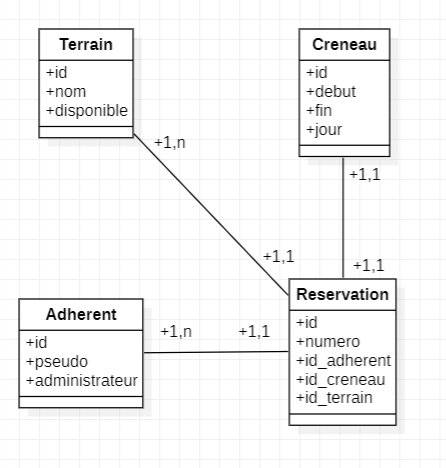
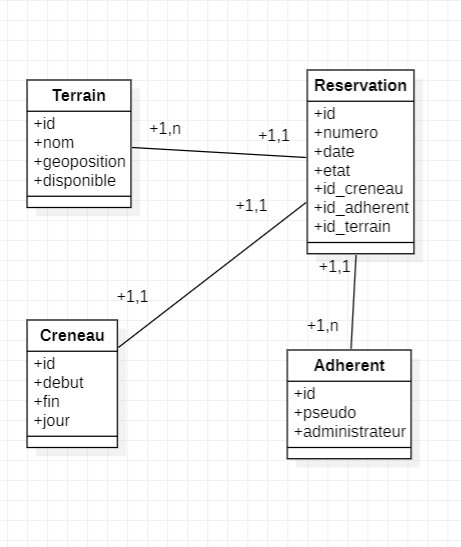
update readme3

diff --git a/README.md b/README.md
@@ -12,7 +12,6 @@
       - [Créneaux](#créneaux)
       - [Adhérents](#adhérents)
       - [Réservations](#réservations)
-      - [Administrateurs](#administrateurs)
     - [Dictionnaire des Données](#dictionnaire-des-données-1)
     - [Tableau Récapitulatif des Ressources](#tableau-récapitulatif-des-ressources)
   - [Modèle Conceptuel des Données (MCD)](#modèle-conceptuel-des-données-mcd)
@@ -61,13 +60,6 @@ Assurez-vous d'avoir [Node.js](https://nodejs.org/) installé sur votre machine.
 - **Paramètres d'URL/Variations :** N/A
 - **Commentaires :** Liste des réservations, ajout et suppression
 
-#### Administrateurs
-
-- **Ressource :** `/administrateurs`
-- **URL :** `/administrateurs`
-- **Méthodes HTTP :** GET, POST
-- **Paramètres d'URL/Variations :** N/A
-- **Commentaires :** Liste des administrateurs, ajout d'un administrateur
 
 ### Dictionnaire des Données
 
@@ -77,33 +69,60 @@ Assurez-vous d'avoir [Node.js](https://nodejs.org/) installé sur votre machine.
 | Créneaux           | creneau_id      | AN   | Oui           |        | Identifiant unique du créneau |
 | Adhérents          | adherent_id     | AN   | Oui           |        | Identifiant unique de l'adhérent |
 | Réservations       | reservation_id  | AN   | Oui           |        | Identifiant unique de la réservation |
-| Administrateurs    | admin_id        | AN   | Oui           |        | Identifiant unique de l'administrateur |
 | Date et Heure      | datetime        | D    | Oui           |        | Date et heure de la réservation |
-| Statut Réservation | status          | A    | Oui           |        | to_confirm, confirmed, canceled |
+| Etat de la réservation | status          | A    | Oui           |        | Ne peut prendre que 3 valeurs : to_confirm, confirmed, canceled  |
+| Statut Réservation attente | to_confirm      | A    | Oui           |        | Valeur possible de Etat de la reservation, une reservation confirmée peut être annulé ou confirmée |
+| Statut Réservation confirmée | confirmed          | A    | Oui           |        | Valeur possible de Etat de la réservation. Ne s'applique sur sur to_confirm. Etat lock |
+| Statut Réservation annulée| canceled          | A    | Oui           |        | ne s'applique que sur un éat to_confirm, ce statut ne peut plus changer aprés |
 
+| ------------------ | --------------- | ---- | ------------- | ------ | ---------------------------------------------- |
+| Ressource          | Code            | Type | Obligatoire ? | Taille | Commentaires                                   |
+| ------------------ | --------------- | ---- | ------------- | ------ | ---------------------------------------------- |
+| Terrains           | id_terrain      | N    | Oui           |        | Identifiant unique du terrain                  |
+| Nom                | nom             | A    | Oui           | 1      | A, B, C, D                                     |
+| Lieu               | lieu            | A    | Oui           | 100    | Lieu du terrain                                |
+| Disponibilité      | disponible      | B    | Oui           |        | true, false                                    |
+| ------------------ | --------------- | ---- | ------------- | ------ | ---------------------------------------------- |
+| Créneaux           | id_creneau      | N    | Oui           |        | Identifiant unique du créneau                  |
+| Date de début      | debut           | D    | Oui           |        | Date de début(ex: 2023-12-25 20:00:00)         |
+| Date de fin        | fin             | D    | Oui           |        | Date de fin(ex: 2023-12-25 20:45:00)           |
+| Jour               | jour            | A    | Oui           |        | lundi, mardi, mercredi, jeudi, vendredi, samedi|
+| ------------------ | --------------- | ---- | ------------- | ------ | ---------------------------------------------- |
+| Adhérents          | id_adherent     | N    | Oui           |        | Identifiant unique de l'adhérent               |
+| Pseudo             | pseudo          | A    | Oui           | 50     | Pseudo unique par adhérent                     |
+| Role               | administrateur  | B    | Oui           |        | true, false                                    |
+| ------------------ | --------------- | ---- | ------------- | ------ | ---------------------------------------------- |
+| Réservations       | id_reservation  | N    | Oui           |        | Identifiant unique de la réservation           |
+| Numéro             | numero          | N    | Oui           |        | Numéro de réservation unique pour l'adhérent   |
+| Date et Heure      | date            | D    | Oui           |        | Date et heure de la réservation                |
+| Statut Réservation | statut          | A    | Oui           |        | to_confirm, confirmed, canceled                |
+| ------------------ | --------------- | ---- | ------------- | ------ | ---------------------------------------------- |
 
 ### Tableau Récapitulatif des Ressources
 
 | Ressource         | URL              | Méthodes HTTP       | Paramètres d'URL/Variations | Commentaires                        |
 |-------------------|------------------|---------------------|-----------------------------|------------------------------------|
-| Terrains          | `/terrains`      | GET, POST           | N/A                         | Liste des terrains, ajout d'un terrain |
+| Terrains          | `/terrains`      | GET, POST           | `/terrains/{id-terrain}`| Liste des terrains, ajout d'un terrain |
 | Créneaux          | `/creneaux`      | GET, POST, DELETE   | N/A                         | Liste des créneaux, ajout et suppression |
-| Adhérents         | `/adherents`     | GET, POST           | N/A                         | Liste des adhérents, ajout d'un adhérent |
+| Adhérents         | `/adh`     | GET, POST           | N/A                         | Liste des adhérents, ajout d'un adhérent |
 | Réservations      | `/reservations`  | GET, POST, DELETE   | N/A                         | Liste des réservations, ajout et suppression |
-| Administrateurs   | `/administrateurs` | GET, POST         | N/A                         | Liste des administrateurs, ajout d'un administrateur |
+
 
 Nom de la ressource | URL | Méthodes HTTP | Paramètres d’URL/Variations | Commentaires
 --- | --- | --- | --- | ---
 Liste des Terrains | `/terrains` | GET | N/A | Liste des terrains disponibles
 Détails d'un Terrain | `/terrains/{id-terrain}` | GET | N/A | Informations détaillées sur un terrain spécifique
 Réserver un Terrain | `/terrains/{id-terrain}/reservations` | POST | N/A | Effectuer une réservation pour un terrain spécifique
-Liste des Réservations d'un Terrain | `/terrains/{id-terrain}/reservations` | GET | N/A | Liste des réservations pour un terrain spécifique
-Annuler une Réservation | `/terrains/{id-terrain}/reservations/{id-reservation}` | DELETE | N/A | Annuler une réservation pour un terrain spécifique
+
+Liste des adhérents| `/adh` | GET | N/A | Liste des Adhérents
+Liste des Réservations d'un adhérent| `/terrains/{id-terrain}/reservations/{id-reservation}/adh` | GET | N/A | Liste des réservations pour un terrain spécifique
+Annuler une Réservation d'un adhérent  | `/terrains/{id-terrain}/reservations/{id-reservation}` | DELETE | N/A | Annuler une réservation pour un terrain spécifique
+Détails d'un Adhérent 
 
 
 ## Modèle Conceptuel des Données (MCD)
 
-[Lien vers le MCD](#lien-mcd)
+
 ![Modèle Conceptuel des Données (MCD)](mcd.png)
 
 
